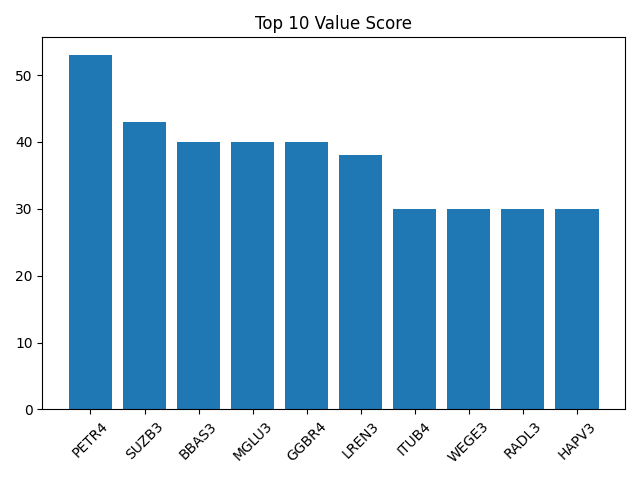
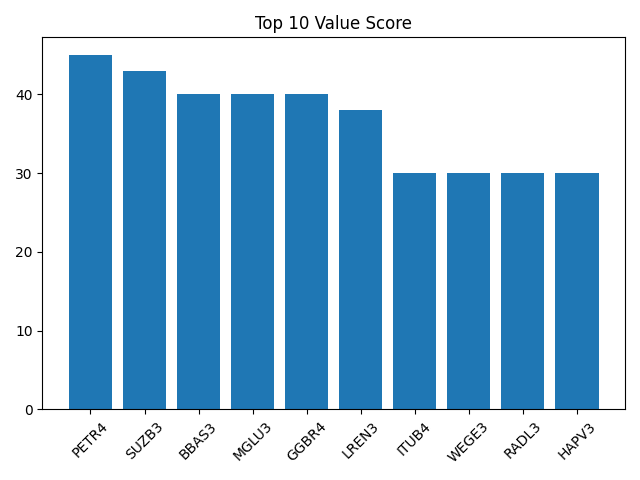
Atualiza ranking automático

diff --git a/index.html b/index.html
@@ -4,17 +4,17 @@
     <title>Investment Agent</title>
 </head>
 <body>
-    <h1>Ranking Value - 2026-04-10</h1>
+    <h1>Ranking Value - 2026-04-11</h1>
 
     <h2>Top 5</h2>
     <pre>
-📊 Ranking Value Diário - 2026-04-10
+📊 Ranking Value Diário - 2026-04-11
 
-PETR4 | Score: 53 | PVP: 1.48 | PL: 5.81
-SUZB3 | Score: 43 | PVP: 1.34 | PL: 4.4
+PETR4 | Score: 45 | PVP: 1.52 | PL: 6.33
+SUZB3 | Score: 43 | PVP: 1.33 | PL: 4.36
 BBAS3 | Score: 40 | PVP: 0.77 | PL: 10.3
-MGLU3 | Score: 40 | PVP: 0.63 | PL: 35.5
-GGBR4 | Score: 40 | PVP: 0.79 | PL: 30.91
+MGLU3 | Score: 40 | PVP: 0.63 | PL: 35.19
+GGBR4 | Score: 40 | PVP: 0.78 | PL: 30.86
 
     </pre>
 
@@ -22,6 +22,6 @@ GGBR4 | Score: 40 | PVP: 0.79 | PL: 30.91
     <img src="grafico.png" width="600">
 
     <h2>Downloads</h2>
-    <a href="ranking_value_2026-04-10.csv">Baixar CSV</a>
+    <a href="ranking_value_2026-04-11.csv">Baixar CSV</a>
 </body>
 </html>
